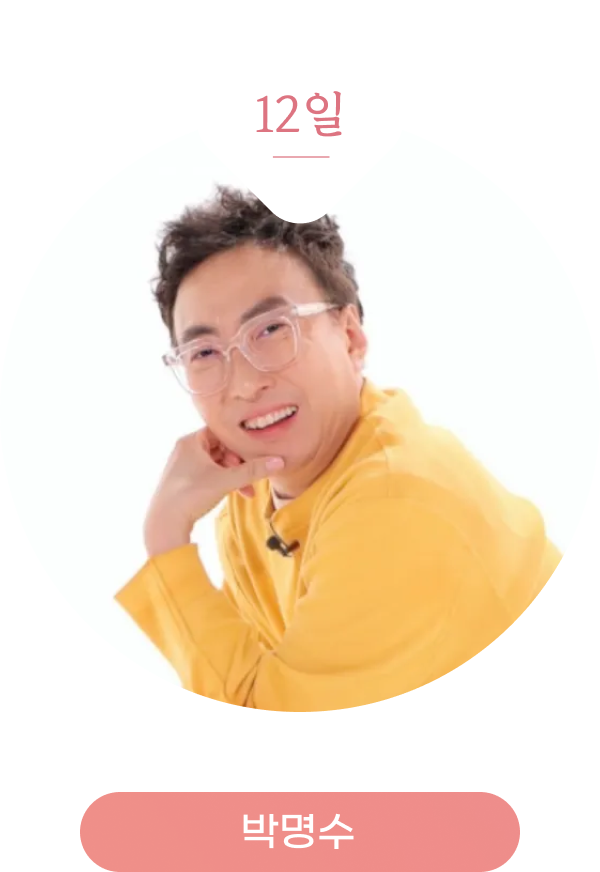
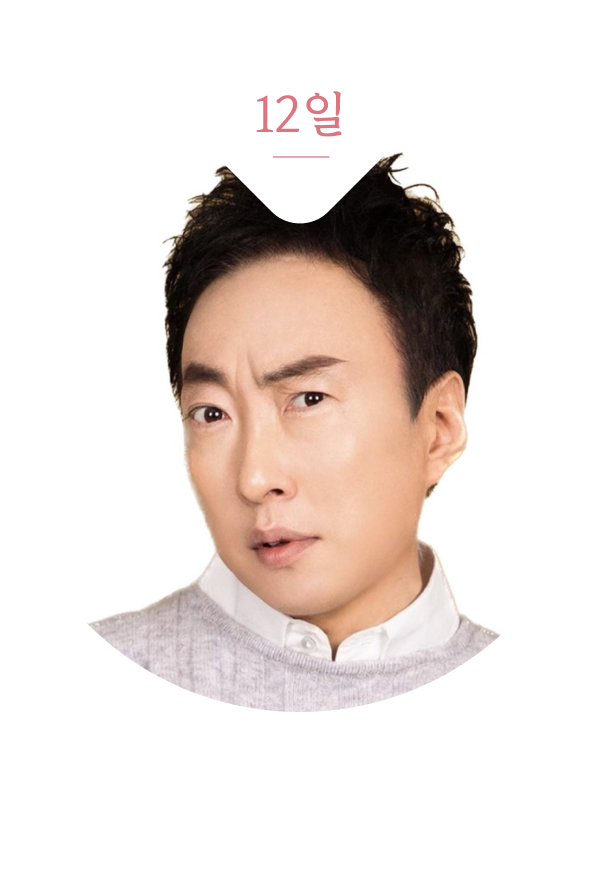
:lipstick: Style: 눈을 반짝이는걸로 변경 후 메인페이지에도 추가, 메인페이지 박명수 사진 변경

diff --git a/src/pages/about/snow.jsx b/src/pages/about/snow.jsx
@@ -3,10 +3,13 @@ import React, { useEffect, useRef } from "react";
 const Snow = () => {
   const canvasRef = useRef(null);
   const ctxRef = useRef(null);
+  const starImageRef = useRef(null); // 별 이미지를 로드하기 위한 참조
 
-  const getRandomRadius = () => Math.random() * 2 + 1;
+  const getRandomX = () => Math.random() * canvasWidth.current;
+  const getRandomY = () => Math.random() * canvasHeight.current;
   const getRandomSpeed = () => Math.random() * 0.2 + 0.05;
-  const getRandomDir = () => [-1, 1][Math.floor(Math.random() * 2)];
+  const getRandomScale = () => Math.random() * 0.4 + 0.1; // 이미지 크기를 조절하기 위한 랜덤 스케일
+  const getRandomDirection = () => (Math.random() < 0.5 ? -1 : 1); // 랜덤 방향 설정
 
   const data = useRef([]);
   const canvasWidth = useRef(0);
@@ -27,15 +30,15 @@ const Snow = () => {
   const make = () => {
     const newData = [];
 
-    for (let i = 0; i < 100; i++) {
-      const x = Math.random() * canvasWidth.current;
-      const y = Math.random() * canvasHeight.current;
+    for (let i = 0; i < 50; i++) {
+      const x = getRandomX();
+      const y = getRandomY();
 
-      const size = getRandomRadius();
       const speed = getRandomSpeed();
-      const dir = getRandomDir();
+      const scale = getRandomScale();
+      const direction = getRandomDirection(); // 랜덤 방향
 
-      newData.push({ x, y, size, speed, dir });
+      newData.push({ x, y, speed, scale, direction });
     }
 
     data.current = newData;
@@ -43,18 +46,25 @@ const Snow = () => {
 
   const move = () => {
     data.current = data.current.map(item => {
-      item.x += item.dir * item.speed;
       item.y += item.speed;
 
-      const isMinOverPositionX = -item.size > item.x;
-      const isMaxOverPositionX = item.x > canvasWidth.current;
-      const isOverPositionY = item.y > canvasHeight.current;
+      // 옆으로 이동
+      item.x += item.speed * item.direction;
 
-      if (isMinOverPositionX || isMaxOverPositionX) {
-        item.dir *= -1;
+      // 화면 아래로 벗어나면 다시 위로 올리기
+      if (item.y > canvasHeight.current) {
+        item.y = -starImageRef.current.height * item.scale;
+        item.x = getRandomX();
+        item.speed = getRandomSpeed();
+        item.scale = getRandomScale();
+        item.direction = getRandomDirection(); // 랜덤 방향 설정
       }
-      if (isOverPositionY) {
-        item.y = -item.size;
+
+      // 화면 옆으로 벗어나면 반대쪽으로 이동
+      if (item.x > canvasWidth.current) {
+        item.x = -starImageRef.current.width * item.scale;
+      } else if (item.x < -starImageRef.current.width * item.scale) {
+        item.x = canvasWidth.current;
       }
 
       return item;
@@ -66,15 +76,16 @@ const Snow = () => {
 
     ctx.clearRect(0, 0, canvasWidth.current, canvasHeight.current);
 
-    ctx.fillStyle = "rgba(0, 0, 0, 0)";
-    ctx.fillRect(0, 0, canvasWidth.current, canvasHeight.current);
-
     data.current.forEach(item => {
-      ctx.beginPath();
-      ctx.fillStyle = "rgba(255, 255, 255, .6)";
-      ctx.arc(item.x, item.y, item.size, 0, Math.PI * 2);
-      ctx.fill();
-      ctx.closePath();
+      const scaledWidth = starImageRef.current.width * item.scale;
+      const scaledHeight = starImageRef.current.height * item.scale;
+      ctx.drawImage(
+        starImageRef.current,
+        item.x,
+        item.y,
+        scaledWidth,
+        scaledHeight
+      );
     });
   };
 
@@ -90,7 +101,14 @@ const Snow = () => {
     canvas.height = canvasHeight.current;
 
     ctxRef.current = ctx;
-    init();
+
+    // 별 이미지 로드
+    const starImage = new Image();
+    starImage.src = "/Main/main_star.png"; // 별 이미지 파일 경로 설정
+    starImage.onload = () => {
+      starImageRef.current = starImage;
+      init();
+    };
 
     const handleResize = () => {
       canvasWidth.current = window.innerWidth;

diff --git a/src/pages/main/Main.jsx b/src/pages/main/Main.jsx
@@ -10,11 +10,13 @@ import PageTitle from "../../components/common/pageTitle/PageTitle";
 import MainBanner from "../../components/Main/MainBanner";
 import TopBooth from "../../components/Main/TopBooth";
 import GuestbookCard from "../../components/Main/MainGuestBookCard";
+import Snow from "../about/Snow";
 
 function Main() {
   return (
     <>
       <S.MainContainer>
+        <Snow style={{ position: "fixed", top: 0, left: 0, zIndex: 100 }} />
         <S.FloatingImagesContainer>
           <S.FloatingImage
             src="/Main/main_ya.png"
